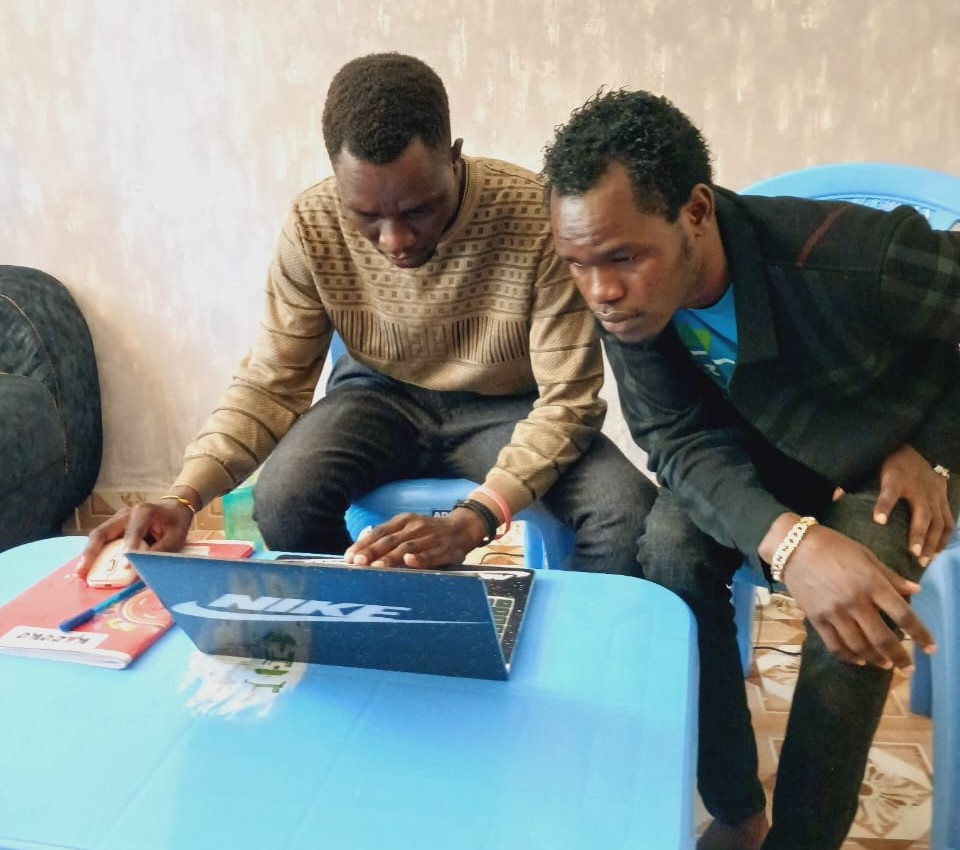
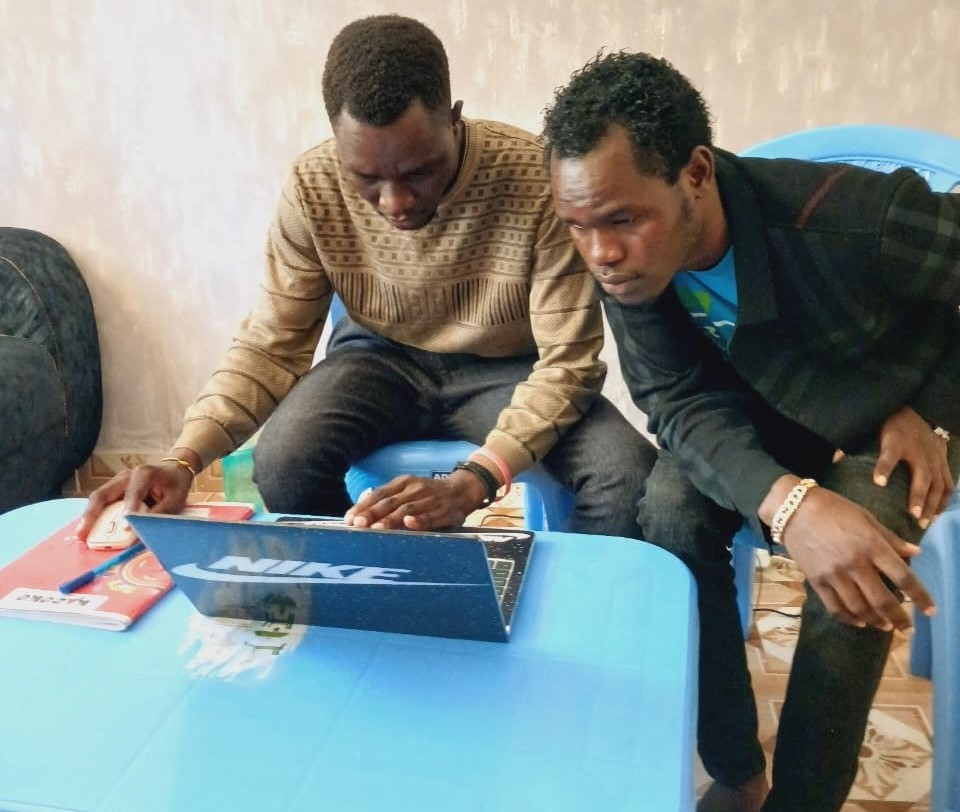
working on the about image

diff --git a/index.html b/index.html
@@ -52,8 +52,8 @@
     
     <div id="about" class="md:grid grid-cols-2 bg-gray-600 text-white pb-10">
 
-        <div class="pl-4 ">
-            <img src="media/coding.jpg" alt="image" width="500px" class="rounded hover:cursor-pointer mt-10" id="skills">
+        <div class="pl-4">
+            <img src="media/coding.jpg" alt="image" width="500px" height="10px" class="rounded hover:cursor-pointer md:mt-10  pt-10 pr-20" id="skills">
         </div>
         <div class="pl-4 text-lg pr-20 md:pl-20 pt-10">
             <p>

diff --git a/index.css b/index.css
@@ -4,13 +4,5 @@
     font-family: "poppins", Arial, Helvetica, sans-serif;
 }
 
-@media (max-width:600px){
-    .navlinks{
-        /*display: none;*/
-        text-align: center;
-        width: 100%;
-    }
-    .active{
-        display: block;
-    }
-}
+
+
